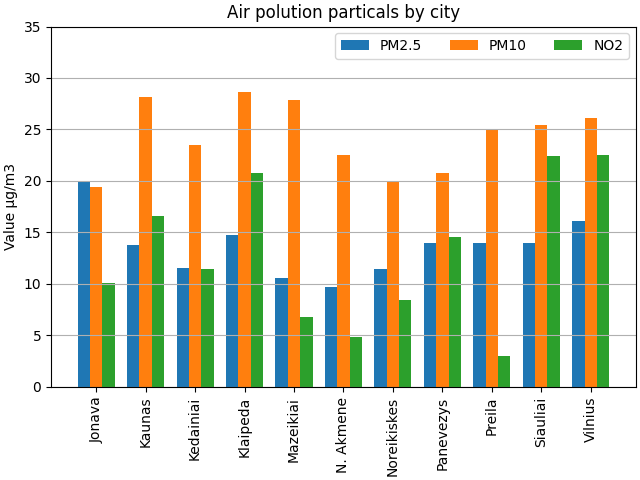
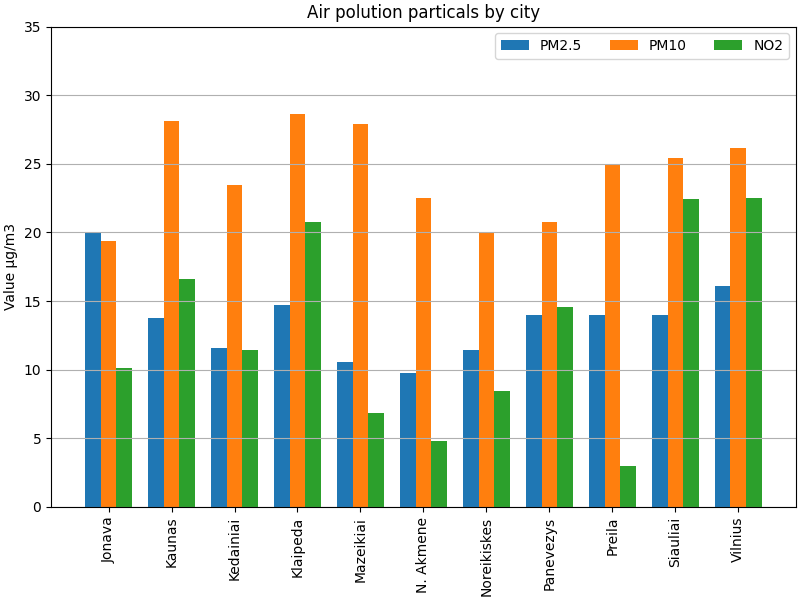
.

diff --git a/final_project.py b/final_project.py
@@ -162,7 +162,7 @@ def show_avg_city():
     width = 0.25  # the width of the bars
     multiplier = 0
 
-    fig, ax = plt.subplots(layout='constrained')
+    fig, ax = plt.subplots(figsize=(8, 6), layout='constrained')
 
     for attribute, measurement in particular.items():
         offset = width * multiplier
@@ -179,7 +179,7 @@ def show_avg_city():
     plt.savefig(f'{save_address}jpeg/city_avg')
     plt.show()
 
-# show_avg_city()
+show_avg_city()
 
 # Update AQI data on daily basis:
 live_data_scraping()
